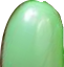
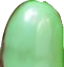
Improved balloon graphic's tileability and parrot movement.

diff --git a/playerItem.js b/playerItem.js
@@ -140,23 +140,7 @@ PlayerItem.prototype.doSelfControl = function(){
 
 
     //Collision Stuff.
-    if(this.collisionTop!=null){
-       this.dy=-this.dy;
-       this.y = this.collisionTop.y+this.collisionTop.halfHeight+this.halfHeight;
-    }
-    if(this.collisionBottom!=null){
-       this.dy=0;
-       this.y = this.collisionBottom.y-this.collisionBottom.halfHeight-this.halfHeight;
-       if((!this.keyMap[this.keyLeft])&&(!this.keyMap[this.keyRight])){
-         //Come slowly to a stop if there's no keys pressed. Floors have friction!
-         this.dx=3*this.dx/4;
-         if(Math.abs(this.dx)<1){this.dx=0;}
-       }
-    }
-    if(this.collisionLeft!=null||this.collisionRight!=null){
-       this.dx=-this.dx;
-    }
-
+    this.doStandardCollision();
 
 
     //Movement.
@@ -231,7 +215,7 @@ PhysicsItem.prototype.ditchBird = function(){
    this.graphicsOffsetY = 0;
    if(this.gotLance){
      this.gotLance=false;
-     addPhysicsItem(null,new LanceItem("lance"+this.maxObjInt,this.x,this.y))
+//     addPhysicsItem(null,new LanceItem("lance"+this.maxObjInt,this.x,this.y))
      this.deadlyBox=undefined;
    }
 }

diff --git a/physicsItem.js b/physicsItem.js
@@ -395,3 +395,25 @@ PhysicsItem.prototype.updatePosition = function(){
 }
 
 
+/****************************************************
+* Standard collision detection, bounce off things.
+*/
+PhysicsItem.prototype.doStandardCollision = function(){
+    if(this.collisionTop!=null){
+       this.dy=-this.dy;
+       this.y = this.collisionTop.y+this.collisionTop.halfHeight+this.halfHeight;
+    }
+    if(this.collisionBottom!=null){
+       this.dy=0;
+       this.y = this.collisionBottom.y-this.collisionBottom.halfHeight-this.halfHeight;
+       if((!this.keyMap[this.keyLeft])&&(!this.keyMap[this.keyRight])){
+         //Come slowly to a stop if there's no keys pressed. Floors have friction!
+         this.dx=3*this.dx/4;
+         if(Math.abs(this.dx)<1){this.dx=0;}
+       }
+    }
+    if(this.collisionLeft!=null||this.collisionRight!=null){
+       this.dx=-this.dx;
+    }
+}
+

diff --git a/parrotItem.js b/parrotItem.js
@@ -20,11 +20,6 @@ function ParrotItem(name,x,y,direction){
   this.mortal = true;
   this.flyable = true;
   this.faceDirection = direction;
-  if(direction==1){
-    this.dx = -1-Math.floor(Math.random()*3);
-  }else{
-    this.dx = 1+Math.floor(Math.random()*3);
-  }
   this.burn = 1
   this.delayFrames=1;
   this.pilot = null; 
@@ -47,6 +42,17 @@ ParrotItem.prototype.doSelfControl = function(){
     return;
   }
   if(this.pilot == null){
+    //Collision Stuff.
+    this.doStandardCollision();
+
+    if(this.dx==0){
+      //Don't stand still boy!
+      if(this.faceDirection==1){
+        this.dx = -1-Math.floor(Math.random()*3);
+      }else{
+        this.dx = 1+Math.floor(Math.random()*3);
+      }
+    }
     this.mortal = true;
     if(Math.floor(Math.random()*6)<1){
       this.burn=1;

diff --git a/mapBlock.js b/mapBlock.js
@@ -43,6 +43,7 @@ function MapBlock(name,x,y,w,h,collision){
     this.solidLeft = true;
   }else if(collision==">"){
     this.graphic = document.getElementById("balloonRight");
+    this.graphicsOffsetY = 1;
     this.solidTop = true;
     this.solidBottom = true;
     this.solidRight = true;
